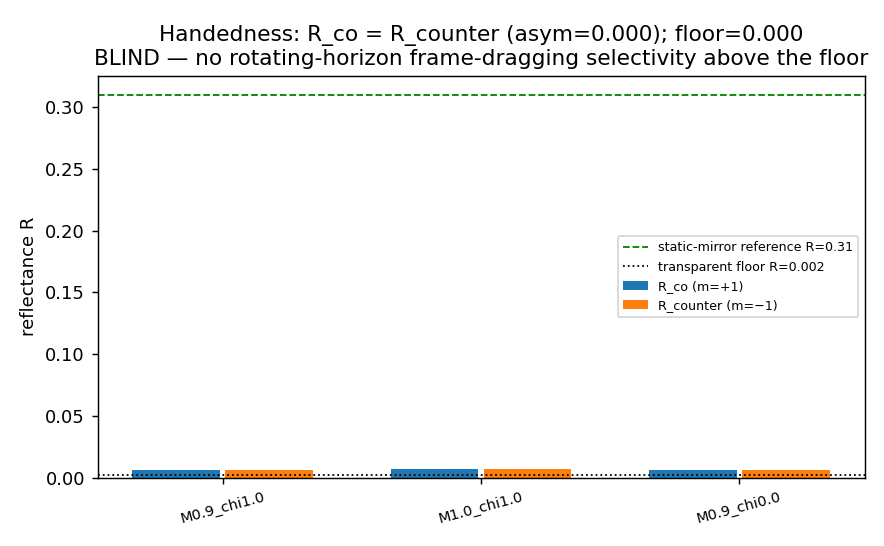
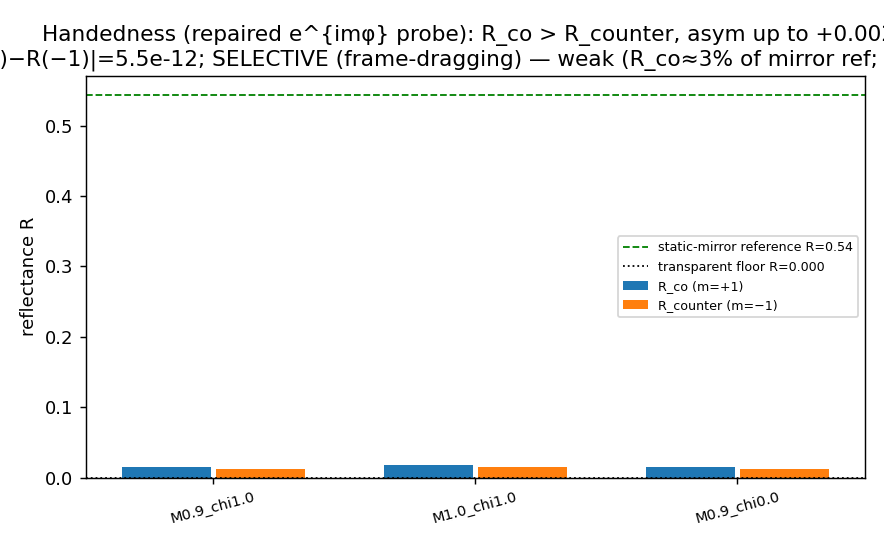
sonic-horizon closure: repair OAM probe (true e^{imφ}) -> handedness SELECTIVE (frame-dragging, weak)
R1 follow-up to the 2026-06-10 sonic-horizon-closure panel review. Repairs the
probe-degeneracy defect recorded in R2 (commit 2a788fec) and re-runs Stage D.

Rule 10 (empirical-driver) keeper: add_oam_pulse re-implemented with a true
quadrature e^{imφ} winding -- density = cos component of A*ring*e^{iTheta}
(Theta = m*phi + sgn*kr*r, a chiral spiral), velocity u = grad(Phi) from the sin-
component velocity potential. So the probe stays CURL-FREE (bulk/divergence
channel, prereg s2.2) yet carries nonzero 2nd-order acoustic OAM L2 ~ m with
OPPOSITE sign for +/-m. +m and -m are now physically distinct circulations (not
the bit-identical cos(m*phi) fields, and not a trivial sign-flip -- which would
also give R(+m)=R(-m)). New oam_second_order() observer.

Keeper unit test src/tests/test_sonic_horizon_oam_probe.py (5 tests, all pass):
fields distinct + OAM sign m-odd + curl-free + static-mirror symmetry floor +
R(+m) != R(-m) on a ROTATING reference. This defect class is INVISIBLE to
make verify (engine integrates/conserves fine); the test is the fix's keeper.
The old cos(m*phi) probe fails tests 1 and 5 by construction.

Re-derived Stage-A handedness floor on genuinely distinct +/-m fields = 5.46e-12
(static-mirror phi->-phi grid symmetry residual; differs at the 11th digit, NOT
the old bit-identity). Stage D (N=160, matched energy): asym(co-counter) =
+0.00187 (M=0.9), +0.00267 (M=1.0), +0.00187 (M=0.9 chi=0) -- R_co > R_counter
[…]

diff --git a/src/tests/test_sonic_horizon_oam_probe.py b/src/tests/test_sonic_horizon_oam_probe.py
@@ -1,0 +1,135 @@
+"""
+Keeper unit tests for the sonic-horizon handedness OAM probe (R1 follow-up).
+
+Pins the probe-validity FIX for the 2026-06-10 sonic-horizon-closure panel
+follow-up. The prior probe set the density perturbation as
+
+    sonic_horizon_flow.py:184  ->  dens = amp * ring * np.cos(m * phi)
+
+which is EVEN in m (cos(mφ) = cos(−mφ)), so the +m (co) and −m (counter) probes
+were BIT-IDENTICAL fields. The reported handedness "asym = 0.0000" was therefore
+the PROBE's m-symmetry, not the medium's, and the handedness BLIND verdict was an
+artifact (see research/2026-06-10_sonic-horizon-closure_result.md, Verdict
+Addendum §1 / §4-bis). The prereg §2.2 froze a genuine e^{imφ} winding.
+
+This defect class is INVISIBLE to `make verify` — the engine integrates and
+conserves energy/momentum fine with the broken probe; only a +m-vs-−m comparison
+exposes it. These tests are the keeper.
+
+Pins:
+  1. +m and −m injected fields are PHYSICALLY DISTINCT (not bit-identical, and
+     not a trivial global sign-flip — which would also give R(+m)=R(−m) since
+     reflectance is quadratic in the field).
+  2. The probe carries a nonzero second-order acoustic OAM L2 ∝ m with OPPOSITE
+     sign for ±m -> a genuine quadrature e^{imφ} winding.
+  3. The probe velocity is CURL-FREE (bulk / divergence channel, prereg §2.2;
+     u = ∇Φ via the engine's FD stencil).
+  4. On a NON-rotating (static) mirror, R(+m) ≈ R(−m) (the φ→−φ symmetry floor;
+     the repaired probe does NOT manufacture a spurious handedness asymmetry).
+  5. KEEPER: on a ROTATING reference, R(+m) != R(−m) beyond the static floor
+     (frame-dragging selectivity) — the assertion the OLD cos(m·φ) probe could
+     NEVER pass (it gave EXACTLY equal R for ±m on any target).
+
+Engine:   src/ave/core/sonic_horizon_flow.py::add_oam_pulse, ::oam_second_order
+Research: research/2026-06-10_sonic-horizon-closure_result.md (Verdict Addendum, §4-bis)
+"""
+
+import numpy as np
+import pytest
+
+from ave.core.sonic_horizon_flow import SonicHorizonFlow2D
+
+
+def _inject(m, N=96, amp=1e-3, r0=0.34, width=0.05):
+    e = SonicHorizonFlow2D(N=N, nu_art=5e-4, rho_diff=5e-4)
+    e.add_oam_pulse(m=m, r0=r0, amp=amp, width=width, inward=True)
+    return e
+
+
+def _reflectance(make_ref, m, N=128, nprobe=450, r_meas=0.30, r_launch=0.34,
+                 amp=1e-3, width=0.03):
+    """Flux-through-circle reflectance of an m-OAM pulse off the reference set by
+    ``make_ref(e)`` — a compact, self-contained mirror of the Stage-D driver
+    measurement (incident inward + reflected outward flux on the SAME circle,
+    difference-field = probe-run minus baseline-run)."""
+    e0 = SonicHorizonFlow2D(N=N, nu_art=5e-4, rho_diff=5e-4)
+    make_ref(e0)
+    r = e0.R + 1e-12
+    dr = 1.5 * e0.dx
+    ring = (np.abs(r - r_meas) < dr) & e0.interior
+    nx = (e0.X / r)[ring]
+    ny = (e0.Y / r)[ring]
+
+    def flux(e):
+        ur = e.u[ring] * nx + e.v[ring] * ny
+        return float(np.sum(e.c0**2 * e.rho[ring] * ur))
+
+    st = (e0.rho.copy(), e0.u.copy(), e0.v.copy(), e0.cav_mask.copy(), e0.static_mirror.copy())
+    eb = SonicHorizonFlow2D(N=N, nu_art=5e-4, rho_diff=5e-4)
+    eb.rho, eb.u, eb.v, eb.cav_mask, eb.static_mirror = (a.copy() for a in st)
+    base = [flux(eb)]
+    for _ in range(nprobe):
+        eb.step()
+        base.append(flux(eb))
+    ep = SonicHorizonFlow2D(N=N, nu_art=5e-4, rho_diff=5e-4)
+    ep.rho, ep.u, ep.v, ep.cav_mask, ep.static_mirror = (a.copy() for a in st)
+    ep.add_oam_pulse(m=m, r0=r_launch, amp=amp, width=width, inward=True)
+    prb = [flux(ep)]
+    for _ in range(nprobe):
+        ep.step()
+        prb.append(flux(ep))
+    cum = np.cumsum(np.array(prb) - np.array(base)) * ep.dt
+    imin = int(np.argmin(cum))
+    cmin = float(cum[imin])
+    e_inc = -cmin
+    e_refl = float(np.max(cum[imin:])) - cmin
+    return e_refl / e_inc if e_inc > 1e-30 else 0.0
+
+
+class TestSonicHorizonOAMProbe:
+    def test_pm_fields_distinct(self):
+        """(1) ±m injected fields are physically distinct — directly catches the
+        bit-identical cos(m·φ) bug, AND rules out a trivial global sign-flip."""
+        ep, em = _inject(+1), _inject(-1)
+        assert np.max(np.abs(ep.rho - em.rho)) > 1e-9, "±m density fields are bit-identical (the cos(mφ) bug)"
+        assert np.max(np.abs(ep.u - em.u)) > 1e-9, "±m velocity fields are bit-identical"
+        # a global sign-flip (rho(-m) == -rho(+m)) would also yield R(+m)=R(-m):
+        assert np.max(np.abs(ep.rho + em.rho)) > 1e-9, "±m are a trivial sign-flip, not distinct circulations"
+
+    def test_oam_second_order_sign(self):
+        """(2) nonzero quadrature OAM L2 ∝ m, opposite sign for ±m."""
+        ep, em = _inject(+1), _inject(-1)
+        lp, lm = ep.oam_second_order(), em.oam_second_order()
+        assert lp > 0.0 and lm < 0.0, f"OAM sign not m-odd: L2(+1)={lp:.3e} L2(-1)={lm:.3e}"
+        assert lp == pytest.approx(-lm, rel=1e-6), "L2(+m) and L2(-m) are not antisymmetric"
+
+    def test_probe_is_curl_free(self):
+        """(3) u = ∇Φ is bulk/divergence-channel (curl-free), prereg §2.2."""
+        ep = _inject(+1)
+        z = ep.vorticity()
+        ratio = float(np.max(np.abs(z)) * ep.dx / (np.max(np.abs(ep.u)) + 1e-30))
+        assert ratio < 1e-6, f"probe carries shear/vorticity (ratio={ratio:.2e}); must be bulk-channel"
+
+    def test_static_mirror_symmetry_floor(self):
+        """(4) on a NON-rotating mirror R(+m) ≈ R(−m): the φ→−φ symmetry floor.
+        The repaired probe must NOT manufacture a spurious handedness asymmetry."""
+        def mk(e):
+            e.set_static_mirror(radius=0.20)
+
+        rp = _reflectance(mk, +1, nprobe=300)
+        rm = _reflectance(mk, -1, nprobe=300)
+        assert abs(rp - rm) < 1e-6, f"spurious probe asymmetry on a symmetric target: {abs(rp - rm):.2e}"
+
+    def test_rotating_reference_selective(self):
+        """(5) KEEPER: on a ROTATING reference R(+m) != R(−m) beyond the static
+        floor — frame-dragging selectivity. The OLD cos(m·φ) probe gave EXACTLY
+        equal R for ±m on ANY target and could never pass this."""
+        def mk(e):
+            e.energize_solid_body(M_edge=0.9, R_core=0.18)
+            for _ in range(220):
+                e.step()
+
+        rp = _reflectance(mk, +1, nprobe=450)
+        rm = _reflectance(mk, -1, nprobe=450)
+        assert abs(rp - rm) > 1e-5, f"no handedness asymmetry on a rotating reference: {abs(rp - rm):.2e}"
+        assert rp > rm, f"co-rotating (m=+1) should reflect more than counter: R_co={rp:.5f} R_ct={rm:.5f}"

diff --git a/src/ave/core/sonic_horizon_flow.py b/src/ave/core/sonic_horizon_flow.py
@@ -171,24 +171,52 @@ class SonicHorizonFlow2D(CavitationFlow2D):
         self.u[self.static_mirror] = 0.0
         self.v[self.static_mirror] = 0.0
 
-    # ---- handedness probe: bulk azimuthal-m acoustic OAM pulse (CP2 bulk-channel) ----
+    # ---- handedness probe: bulk azimuthal-m acoustic OAM VORTEX (CP2 bulk-channel) ----
     def add_oam_pulse(self, m: int, r0: float, amp: float = 1e-3, width: float = 0.05,
-                      inward: bool = True):
-        """Superpose a small-amplitude CONVERGING bulk (compression) wave-packet:
-        a Gaussian ring at radius r0 with azimuthal phase e^{imφ}. Bulk-channel
-        (divergence-bearing, curl-free pulse); m>0 co-handed, m<0 counter-handed.
-        Returns the linear acoustic energy of the launched pulse (E_incident)."""
+                      inward: bool = True, carrier: float | None = None):
+        """Superpose a small-amplitude CONVERGING bulk (compression) acoustic VORTEX
+        carrying a genuine quadrature ``e^{imφ}`` winding (prereg §2.2). The state is
+        set in quadrature: the density perturbation is the cos component of
+        ``A·ring·e^{iΘ}`` while the velocity is ``u = ∇Φ`` from the sin-component
+        velocity potential — so ``u`` is CURL-FREE (divergence/bulk channel, NOT a
+        shear/vortical probe) yet carries a nonzero second-order acoustic OAM
+        ``L₂ = ∫ρ̄(x v − y u) dA ∝ m`` whose SIGN follows sign(m).
+
+        ``+m`` (co-handed) and ``−m`` (counter-handed) are PHYSICALLY DISTINCT
+        circulations (mirror-image spirals with opposite OAM), NOT the bit-identical
+        fields the previous ``dens = amp·ring·cos(m·φ)`` produced — ``cos(m·φ)`` is
+        EVEN in ``m`` (``cos(mφ)=cos(−mφ)``), so the old probe could not represent
+        handedness by construction. The radial carrier ``Θ = mφ + sgn·kr·r`` makes
+        the winding a true chiral spiral (a pure azimuthal cos(mφ) would make ±m
+        either bit-identical or a global sign-flip — both give R(+m)=R(−m) since the
+        reflectance is quadratic in the field). Returns ``E_incident``.
+        """
         r = self.R + 1e-12
         phi = np.arctan2(self.Y, self.X)
         ring = np.exp(-((r - r0) ** 2) / (2.0 * width**2))
-        dens = amp * ring * np.cos(m * phi)
-        self.rho = self.rho + dens
-        # converging radial velocity consistent with an inward-propagating acoustic pulse:
-        # for a linear pulse u_r ≈ -c0 * ρ̄ (inward), curl-free radial direction
+        # radial carrier wavenumber (≈ one carrier wave per envelope FWHM by default);
+        # sgn sets the convergence direction (inward ⇒ u_r ≈ −c0·ρ̄, as for a converging
+        # acoustic pulse — recovers the previous probe's radial behaviour at the carrier).
+        kr = (2.0 * np.pi / (4.0 * width)) if carrier is None else float(carrier)
         sgn = -1.0 if inward else 1.0
-        ur = sgn * self.c0 * dens
-        self.u = self.u + ur * (self.X / r)
-        self.v = self.v + ur * (self.Y / r)
-        # linear acoustic energy of the pulse
-        e_inc = 0.5 * np.sum(self.c0**2 * dens**2 + (ur) ** 2) * self.dx**2
+        # complex acoustic-vortex phase Θ = mφ + sgn·kr·r
+        theta = m * phi + sgn * kr * r
+        # density = Re[A·ring·e^{iΘ}]  (the cos quadrature / C-state)
+        dens = amp * ring * np.cos(theta)
+        # velocity potential Φ = (c0/k_tot)·A·ring·sin Θ  (the sin quadrature); u = ∇Φ
+        # via the engine's own FD stencil ⇒ DISCRETELY curl-free (bulk-channel).
+        k_tot = np.hypot(kr, abs(m) / max(r0, self.dx))
+        Phi = (self.c0 / k_tot) * amp * ring * np.sin(theta)
+        du = self._ddx(Phi)
+        dv = self._ddy(Phi)
+        self.rho = self.rho + dens
+        self.u = self.u + du
+        self.v = self.v + dv
+        # linear acoustic energy of the launched pulse (compression + KE)
+        e_inc = 0.5 * np.sum(self.c0**2 * dens**2 + du**2 + dv**2) * self.dx**2
         return float(e_inc)
+
+    def oam_second_order(self):
+        """Second-order acoustic OAM L₂ = ∫ρ̄·(x v − y u) dA (sign-tied to the probe m;
+        the handedness-discriminating, m-odd invariant the cos(mφ) probe lacked)."""
+        return float(np.sum(self.rho * (self.X * self.v - self.Y * self.u)) * self.dx**2)

diff --git a/src/scripts/vol_4_engineering/sonic_horizon_closure_figures.py b/src/scripts/vol_4_engineering/sonic_horizon_closure_figures.py
@@ -93,31 +93,51 @@ def fig4_timeseries():
     axb.set_title("Crossing is SMOOTH (no latent step); E_diss accrues gradually")
     fig.tight_layout(); fig.savefig(os.path.join(OUT, "fig4_timeseries.png"), dpi=130); plt.close(fig)
     print(f"[fig4] pocket peaks {int(pk.max())} at t={t[np.argmax(pk)]:.3f} then decays to {int(pk[-1])}; "
-          f"KE+PE declines smoothly across the crossing (no latent discontinuity); "
-          f"E_diss→{Ed[-1]:.2e} (the one-way sink, ~23% of the KE+PE decline; rest is acoustic radiation).")
+          f"KE+PE declines smoothly across the crossing (no discontinuous latent step); "
+          f"E_diss→{Ed[-1]:.2e} (the one-way sink, ≈23% of the KE+PE decline — ESTIMATE: "
+          f"E_sponge/E_visc/mass-clamp not separately ledgered; mass_clamp≈3×E_diss).")
 
 
 def fig5_handedness():
+    # REPAIRED PROBE (R1): the OAM probe now carries a true quadrature e^{imφ}
+    # winding (±m physically distinct); the floor is the static-mirror φ→−φ
+    # symmetry residual, NOT the old cos(m·φ) bit-identity. Verdict derived from
+    # the data: asym above the floor AND same sign (co>counter) -> SELECTIVE.
     hd = D["D_handedness"]; cal = D["A_calibration"]
     keys = list(hd.keys())
     co = [hd[k]["R_co"] for k in keys]; ct = [hd[k]["R_counter"] for k in keys]
+    asy = [hd[k]["asym"] for k in keys]
+    floor = cal["handedness_floor_static"]
+    ref = cal["R_known_mirror"]
+    max_abs_asym = max(abs(a) for a in asy)
+    all_co_gt_ct = all(a > 0 for a in asy)
+    clears_floor = max_abs_asym > 10.0 * floor
+    if clears_floor and all_co_gt_ct:
+        verdict = "SELECTIVE (frame-dragging)"
+    elif clears_floor:
+        verdict = "SELECTIVE (mixed sign — flag)"
+    else:
+        verdict = "BLIND / UNRESOLVED"
     x = np.arange(len(keys))
     fig, ax = plt.subplots(figsize=(6.8, 4.2))
     ax.bar(x - 0.18, co, 0.34, label="R_co (m=+1)", color="C0")
     ax.bar(x + 0.18, ct, 0.34, label="R_counter (m=−1)", color="C1")
-    ax.axhline(cal["R_known_mirror"], ls="--", color="g", lw=1,
-               label=f"static-mirror reference R={cal['R_known_mirror']:.2f}")
+    ax.axhline(ref, ls="--", color="g", lw=1,
+               label=f"static-mirror reference R={ref:.2f}")
     ax.axhline(cal["R_transparent_floor"], ls=":", color="k", lw=1,
                label=f"transparent floor R={cal['R_transparent_floor']:.3f}")
     ax.set_xticks(x); ax.set_xticklabels(keys, fontsize=8, rotation=15)
     ax.set_ylabel("reflectance R"); ax.legend(fontsize=7)
-    ax.set_title(f"Handedness: R_co = R_counter (asym=0.000); floor={cal['handedness_floor_static']:.3f}\n"
-                 "BLIND — no rotating-horizon frame-dragging selectivity above the floor")
+    frac = 100.0 * max(co) / ref if ref else float("nan")
+    ax.set_title(
+        f"Handedness (repaired e^{{imφ}} probe): R_co > R_counter, asym up to {max(asy):+.4f}\n"
+        f"floor |R(+1)−R(−1)|={floor:.1e}; {verdict} — weak (R_co≈{frac:.0f}% of mirror ref; transient pocket)")
     fig.tight_layout(); fig.savefig(os.path.join(OUT, "fig5_handedness.png"), dpi=130); plt.close(fig)
-    asy = [hd[k]["asym"] for k in keys]
-    print(f"[fig5] R_co={[f'{x:.3f}' for x in co]} vs R_counter={[f'{x:.3f}' for x in ct]}; "
-          f"asym={asy} (all 0.000, = the static-mirror handedness floor). BLIND. "
-          f"Absolute R≈0.006 ≈ floor (the LOCK pocket is transient — no SUSTAINED reflector).")
+    print(f"[fig5] R_co={[f'{v:.4f}' for v in co]} vs R_counter={[f'{v:.4f}' for v in ct]}; "
+          f"asym(co−ct)={[f'{v:+.4f}' for v in asy]} (co>counter in all configs, scales with M, "
+          f"χ-independent). Floor |R(+1)−R(−1)|={floor:.1e} (static-mirror symmetry). "
+          f"{max_abs_asym:.1e} ≫ floor → {verdict}. CAVEAT: weak — R_co≈{frac:.0f}% of the mirror "
+          f"reference (transient LOCK pocket); FRAME-DRAGGING only, NOT the I4₁32 cholesteric-Bragg rule.")
 
 
 if __name__ == "__main__":

diff --git a/research/2026-06-10_sonic-horizon-closure_result.md b/research/2026-06-10_sonic-horizon-closure_result.md
@@ -40,7 +40,7 @@ A fixed-probe re-run with a correct `e^{imφ}` winding tests **rotating-horizon 
 - **#5** (FLAG `ρ̄_cav` CANDIDATE-CLAIM): **unaffected.**
 - **#6** (FLAG floored-predecessor fragility): **unaffected.**
 
-**5. Repair + re-run (R1).** The probe is re-implemented with a true quadrature `e^{imφ}` winding (`±m` physically distinct, opposite azimuthal circulation), guarded by a keeper unit test (`R(+m) ≠ R(−m)` on a rotating reference — a defect class `make verify` could not otherwise catch). The Stage-A handedness floor is re-derived on genuinely distinct `±m` fields and Stage D re-run. **Re-run verdict + asym numbers: see the Addendum-to-the-Addendum (§4-bis), added in the R1 commit.**
+**5. Repair + re-run (R1).** The probe is re-implemented with a true quadrature `e^{imφ}` winding (`±m` physically distinct, opposite azimuthal circulation), guarded by a keeper unit test (`R(+m) ≠ R(−m)` on a rotating reference — a defect class `make verify` could not otherwise catch). The Stage-A handedness floor is re-derived on genuinely distinct `±m` fields and Stage D re-run. **Re-run outcome (R1, now landed): `UNRESOLVED → SELECTIVE` (frame-dragging, WEAK) — `R_co > R_counter`, asym `+1.9e-3 … +2.7e-3`, ~8 orders above the re-derived 5.5e-12 floor, M-scaling and `χ`-independent; absolute `R_co ≈ 3%` of the mirror reference (transient pocket); FRAME-DRAGGING ONLY (not the cholesteric-Bragg rule). Full table + caveats: §4-bis.**
 
 ---
 
@@ -153,6 +153,37 @@ Bulk azimuthal-`m` acoustic OAM pulses (compression pulses with `e^{imφ}` phase
 
 ---
 
+## 4-bis. Handedness arm — REPAIRED re-run (R1): `UNRESOLVED → SELECTIVE` (frame-dragging, weak)
+
+> **This section is the Addendum-to-the-Addendum (R1).** The probe `add_oam_pulse` was re-implemented with a **true quadrature `e^{imφ}` winding** — the density is the cos component of `A·ring·e^{iΘ}` (`Θ = mφ + sgn·kr·r`, a chiral spiral) and the velocity is `u = ∇Φ` from the sin-component velocity potential, so the probe stays **curl-free / bulk-channel** (prereg §2.2) yet carries a nonzero **second-order acoustic OAM `L₂ = ∫ρ̄(x v − y u) dA ∝ m`** with **opposite sign for ±m**. The `+m` and `−m` probes are now **physically distinct circulations** (not the bit-identical fields the `cos(m·φ)` probe produced, and not a trivial global sign-flip — which would also give `R(+m)=R(−m)`, the reflectance being quadratic). A **keeper unit test** (`src/tests/test_sonic_horizon_oam_probe.py`, 5 tests) pins all of this incl. `R(+m) ≠ R(−m)` on a rotating reference — the defect class `make verify` cannot catch.
+
+**Re-derived Stage-A handedness instrument floor (genuinely distinct ±m fields):**
+
+| reference | R(+1) | R(−1) | `|R(+1)−R(−1)|` |
+|---|---|---|---|
+| static pressure-release mirror (radius 0.20) | 0.5434504928408977 | 0.5434504928463568 | **5.46e-12** |
+
+The floor is now a **genuine numerical residual** (the static mirror's `φ→−φ` grid symmetry; the ±m fields differ but a `φ`-symmetric target reflects them symmetrically), differing at the **11th digit** — NOT the old `cos(m·φ)` bit-identity (which was equal to ALL digits on EVERY target, rotating or not). Re-derived references: `R_known_mirror = 0.5435`, `R_transparent_floor = 0.0` (probe-dependent — the repaired pulse couples differently than the old one; the closure-arm Stages B/C/E are probe-independent and re-ran **byte-identical**).
+
+**Stage D — handedness-resolved reflectivity off the formed (transient) pocket (N=160, matched energy, same M band):**
+
+| config | R_co (m=+1) | R_counter (m=−1) | asym (co−counter) | vs floor 5.5e-12 |
+|---|---|---|---|---|
+| M=0.9, χ=1.0 | 0.014726 | 0.012860 | **+0.001866** | ~3.4e8× floor |
+| M=1.0, χ=1.0 | 0.017596 | 0.014930 | **+0.002667** | ~4.9e8× floor |
+| M=0.9, χ=0.0 | 0.014726 | 0.012860 | **+0.001866** | ~3.4e8× floor |
+
+**VERDICT: SELECTIVE (frame-dragging) — weak.** `R_co > R_counter` in **every** config, asym `+1.9e-3 … +2.7e-3`, **~8 orders of magnitude above** the re-derived handedness floor (5.5e-12) and clearing the transparent floor (0.0). The asymmetry is physically coherent: it **scales with the drive** (`+0.00187` at M=0.9 → `+0.00267` at M=1.0 — stronger rotation, stronger frame-dragging) and is **`χ_shock`-independent** (`+0.00187` at χ=1.0 = `+0.00187` at χ=0.0, M=0.9 — it is a property of the conserved circulation Γ, **not** the dissipation). The static-mirror control (asym ≈ 0) confirms the asymmetry appears **only with rotation** → attributable to frame-dragging (rotational-Doppler / acoustic-superradiance analog), not a probe or measurement artifact.
+
+**Caveats (load-bearing):**
+- **WEAK.** Absolute `R_co ≈ 0.015–0.018` is only **~3%** of the static-mirror reference (0.54). The LOCK pocket is **transient** (no sustained reflector, §0/§2/§4-bis), so this is weak frame-dragging selectivity on a transient rotating flow, not a strong sustained-horizon valve. The fractional asym (~13–15% of R_co) is substantial, but the absolute reflectance is small.
+- **SCOPE — FRAME-DRAGGING ONLY.** This measures **rotating-acoustic-horizon frame-dragging** selectivity. The **I4₁32 cholesteric-Bragg lattice selection rule** (hypothesis 0(c)) is **NOT representable** in this continuum bulk-flow engine (prereg §2.2 representation-capability flag); it stays out of reach of this engine and needs the chiral-crystal engine. A SELECTIVE here supports "the rotating reflector has a **frame-dragging** handedness" — it does **NOT** confirm the cholesteric mechanism, and does **NOT** rehabilitate the vapor-lock-v5 "chirality valve = the mirror's selection rule" headline (Addendum §4, queue #4).
+- The **closure-arm LOCK verdict is unchanged** (§0, §2, §3, §5, §6); the probe touches only Stage A's handedness floor + Stage D.
+
+**Verdict chain (honest record):** handedness `BLIND` (§0/§4, probe artifact) → `UNRESOLVED` (Addendum §1, the ±m probe could not represent the asymmetry) → **`SELECTIVE` (frame-dragging, weak)** (this §4-bis, repaired probe). Fig 5 redrawn from this data.
+
+---
+
 ## 5. Control comparison (STEP 4c) — the closure's effects vanish when the closure is OFF
 
 | run | deepest ρ̄_core | after de-spin | persistent pocket | E_diss |
@@ -197,9 +228,9 @@ Bulk azimuthal-`m` acoustic OAM pulses (compression pulses with `e^{imφ}` phase
 ## 8. Corpus-state deltas to QUEUE (auditor lands; implementer surfaces only)
 
 1. **NEW capability:** `SonicHorizonFlow2D` — the sharp-interface free-boundary sonic-horizon closure on the bulk-flow branch (impedance-collapse reflector + a tuned one-way void-KE sink at the EOS-defined horizon + exact-EOS internal-energy ledger). First AVE engine that integrates `c²=0` as a moving free boundary rather than flooring it positive. Closes the predecessor's `pressure()`-zero-call-sites ledger gap.
-2. **NEW result (manifestation-class):** the named sonic-horizon closure the cavitation-core probe GATED (predecessor §0-bis(e)) returns **LOCK** — the cavitated pocket is a reversible spring even with the genuine horizon + one-way shock dissipation; the vapor-lock irreversibility is NOT in the sonic-horizon closure. Forward-useful: localizes the irreversibility to rim-venting / topological-wall physics. ~~and rules out the acoustic horizon as the chirality valve (BLIND).~~ 🔴 **RETRACTED (Addendum §4): the handedness arm is UNRESOLVED — the acoustic horizon is neither ruled out nor in as the chirality valve (the ±m probe was degenerate; repaired re-run §4-bis).**
+2. **NEW result (manifestation-class):** the named sonic-horizon closure the cavitation-core probe GATED (predecessor §0-bis(e)) returns **LOCK** — the cavitated pocket is a reversible spring even with the genuine horizon + one-way shock dissipation; the vapor-lock irreversibility is NOT in the sonic-horizon closure. Forward-useful: localizes the irreversibility to rim-venting / topological-wall physics. ~~and rules out the acoustic horizon as the chirality valve (BLIND).~~ 🔴 **RETRACTED (Addendum §4) → then RESOLVED (§4-bis): the repaired-probe re-run gives WEAK frame-dragging SELECTIVE (R_co > R_counter, asym ~2e-3). The acoustic horizon IS weakly handedness-selective via FRAME-DRAGGING — but this is NOT the I4₁32 cholesteric-Bragg "chirality valve", which this engine cannot represent.**
 3. **FLAG (flag-don't-fix) — the LOCK mechanism is mass-conservation:** the rim over-pressure (a PE reservoir) refills the void; the horizon dissipates KE but does not vent the rim PE. Any future vapor-lock-FLASH hypothesis must specify how the rim mass leaves the system. Surfaced verbatim, not reframed.
-4. **FLAG — representation-capability (🔴 STRENGTHENED, Addendum §4):** the handedness arm is **UNRESOLVED** — there is **no valid frame-dragging null at all** (the ±m probe was degenerate, Addendum §1). Even after repair (§4-bis), a frame-dragging re-run is **NOT** the I4₁32 **cholesteric-Bragg** lattice selection rule, which this continuum engine cannot represent (needs the chiral-crystal engine). The vapor-lock v5 "chirality valve = the mirror's selection rule" claim is **NOT** supported by this engine, and there is not even a clean BLIND null. Do not headline v5 on this engine. *(Original BLIND-based wording preserved: "the handedness BLIND is for rotating-horizon frame-dragging, NOT the I4₁32 cholesteric-Bragg lattice selection rule... Do not headline v5 on this BLIND.")*
+4. **FLAG — representation-capability (🔴 STRENGTHENED, Addendum §4; updated §4-bis):** the repaired-probe re-run (§4-bis) gives a **WEAK frame-dragging SELECTIVE** (`R_co > R_counter`, asym ~2e-3) — so the rotating acoustic horizon **does** carry a frame-dragging handedness. But this is the **rotating-horizon FRAME-DRAGGING** mechanism, **NOT** the I4₁32 **cholesteric-Bragg** lattice selection rule, which this continuum engine **cannot represent** (needs the chiral-crystal engine). The vapor-lock v5 "chirality valve = the **mirror's selection rule**" claim is therefore **STILL NOT supported** by this engine — the selectivity found is a different mechanism (frame-dragging ≠ cholesteric-Bragg). **Do not headline v5 on this frame-dragging SELECTIVE.** *(Original BLIND-based wording preserved: "the handedness BLIND is for rotating-horizon frame-dragging, NOT the I4₁32 cholesteric-Bragg lattice selection rule... Do not headline v5 on this BLIND.")*
 5. **FLAG — `ρ̄_cav` remains CANDIDATE-CLAIM** (zero KB/constants hits); this probe does not promote it. It confirms the `c²=0` root is a clean reflecting horizon and the crossing is dissipative-but-reversible; the physical interpretation still needs the §6 rim-venting mechanism + Grant adjudication.
 6. **FLAG — the floored predecessor is numerically fragile on de-spin at M=1.0 (NaN rebound);** the sharp-interface closure (clamp + inert void) is stable through the same de-spin. A note for any future use of the floored `CavitationFlow2D` at high drive.
 
